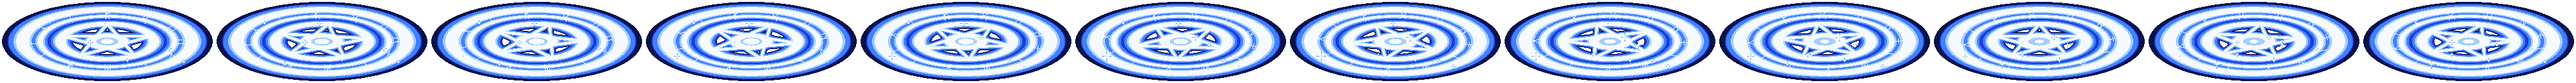
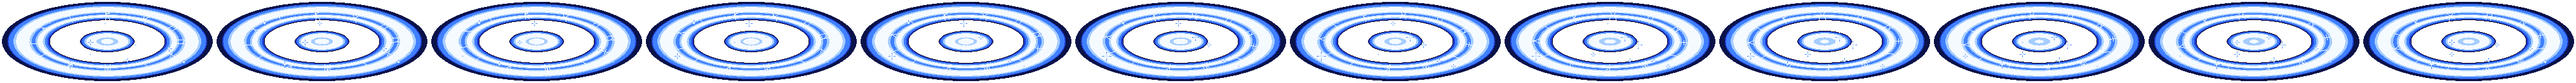
Action prototype: skill 4 without the star (plain rune circle, dash lines only flash)

diff --git a/action.html b/action.html
@@ -1133,7 +1133,7 @@ function flurryStep(p, dt) {
 }
 function nextCut(p, f) {
   f.ax = f.V[STAR[f.n]][0]; f.ay = f.V[STAR[f.n]][1]; f.bx = f.V[STAR[f.n + 1]][0]; f.by = f.V[STAR[f.n + 1]][1];
-  f.lines.push({x1: f.ax, y1: f.ay, x2: f.bx, y2: f.by, u: 0}); f.hit = 0; f.u = 0;
+  f.lines.push({x1: f.ax, y1: f.ay, x2: f.bx, y2: f.by, u: 0, t0: G.t}); f.hit = 0; f.u = 0;
   p.dir = f.bx >= f.ax ? 0 : 4;
 }
 function starFinish(p, f) {       // the heavy end: the star flashes, five strikes, a shockwave, everything inside takes a big hit
@@ -1153,16 +1153,16 @@ function drawStarLines(f, fade) {  // the dashed lines stay on the ground as cra
   if (!FXS.glowBlue) FXS.glowBlue = glowSprite([70, 130, 255]);
   const seed = (G.t * 30 | 0) >> 1, wh = f.flash > 0;
   for (let li = 0; li < f.lines.length; li++) { const L = f.lines[li], x2 = L.x1 + (L.x2 - L.x1) * L.u, y2 = L.y1 + (L.y2 - L.y1) * L.u, len = Math.hypot(x2 - L.x1, y2 - L.y1);
-    if (len < 2) continue;
+    const life = 1 - Math.max(0, G.t - L.t0 - SK4.cut * .7) / .22; if (len < 2 || life <= 0) continue; fade *= 1; const fd = fade * life;   // a short flash, no star left behind
     const nx = -(y2 - L.y1) / len, ny = (x2 - L.x1) / len, seg = Math.max(2, len / 18 | 0), P = [[L.x1, L.y1]];
     for (let k = 1; k < seg; k++) { const r = Math.sin((seed + li * 7) * 12.9898 + k * 78.233) * 43758.5453, j = (r - Math.floor(r) - .5) * 9;
       P.push([L.x1 + (x2 - L.x1) * k / seg + nx * j, L.y1 + (y2 - L.y1) * k / seg + ny * j * .6]); }
     P.push([x2, y2]);
-    glowAt((L.x1 + x2) / 2, (L.y1 + y2) / 2 - 2, len * .6, 20, FXS.glowBlue, (wh ? 1 : .7) * fade);
+    glowAt((L.x1 + x2) / 2, (L.y1 + y2) / 2 - 2, len * .6, 20, FXS.glowBlue, .7 * fd);
     for (const [w, col, a] of [[7, '#0a1248', .6], [5, '#4080ff', 1], [3, '#a5cdff', 1], [1, '#ffffff', 1]]) {   // dark edge, blue, light, white core
-      ctx.globalAlpha = a * fade; ctx.fillStyle = col;
+      ctx.globalAlpha = a * fd; ctx.fillStyle = col;
       for (let k = 0; k < P.length - 1; k++) { const [ax, ay] = P[k], [bx, by] = P[k + 1], n = Math.max(1, Math.hypot(bx - ax, by - ay) | 0);
-        for (let q = 0; q <= n; q++) ctx.fillRect(Math.round(ax + (bx - ax) * q / n - (w >> 1)), Math.round(ay + (by - ay) * q / n - (w >> 1)), wh ? w + 1 : w, wh ? w + 1 : w); } }
+        for (let q = 0; q <= n; q++) ctx.fillRect(Math.round(ax + (bx - ax) * q / n - (w >> 1)), Math.round(ay + (by - ay) * q / n - (w >> 1)), w, w); } }
   }
   ctx.globalAlpha = 1;
 }

diff --git a/docs/action-game.md b/docs/action-game.md
@@ -252,6 +252,9 @@ phone) + attack + roll; about 8 skills per class to unlock up to level 50, the p
   light / white core, glow), a VFX `bolt_strike` (`fx/starbolt.png`) at every point she reaches, everything inside hit per
   line (5 × 9); `starFinish`: the star flashes, five strikes together, VFX `shockwave_ring` (`fx/starshock.png`), a burst,
   22 damage, hit-stop .14, shake 11, camera kick.
+  Owner "ไม่สวย เอาดาวออก": the rune circle re-made without its hexagram / star ring (My effects "rogue_rune_nostar" →
+  `fx/starrune.png`), and each dash line now only flashes (.22 s after the dash) instead of staying, so no star builds up;
+  the five dashes, lightning strikes and the heavy finish stay.
   Throws (owner "ปาให้ดูแรงกว่านี้ ไม่เอาย้อย"): the dagger flies straight at 1700 px/s with a longer streak and lands with an
   impact star, sparks and a shake; the bomb is thrown flat (arc 16 px, .26 s) trailing fuse smoke.
 - Skill effects (owner "สกิลได้ไปเอาจาก vfx ในpixellab ไหม" → "pixelfx อันนี้เราเคยใช้" → "ถ้าไม่มีก็เจนจาก pixellab"):
